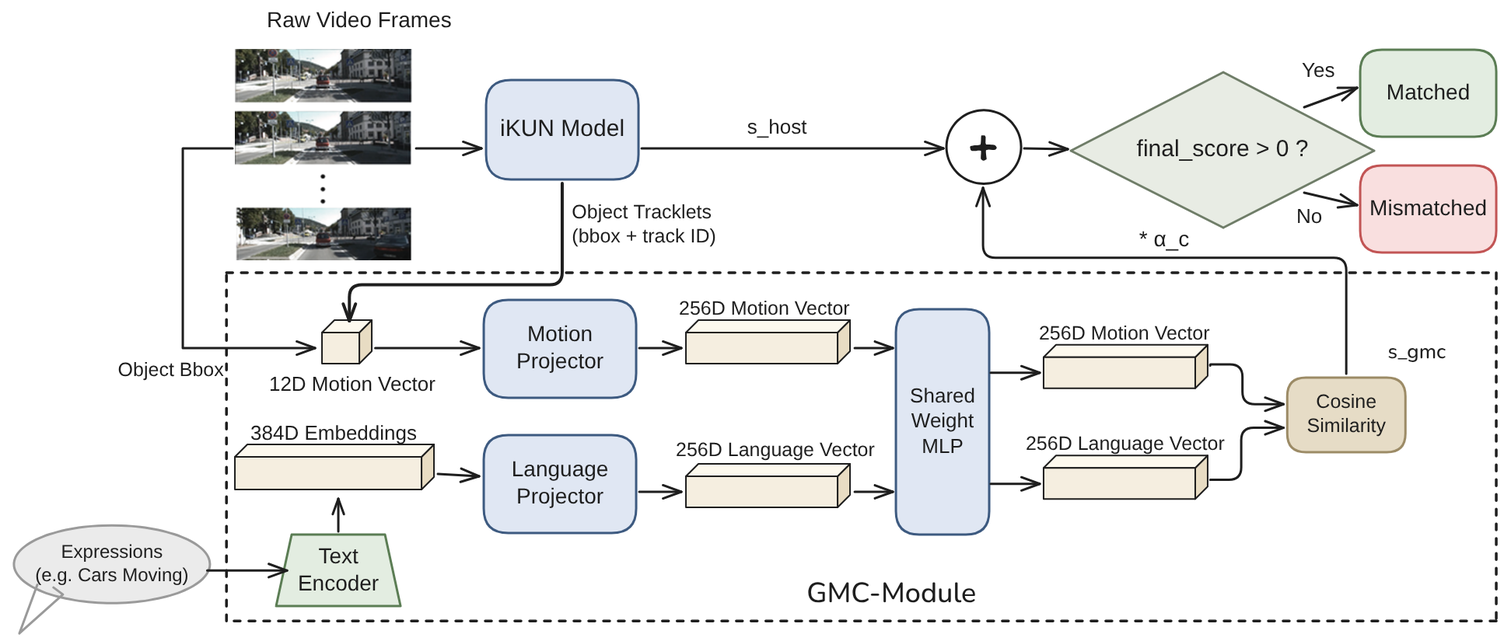
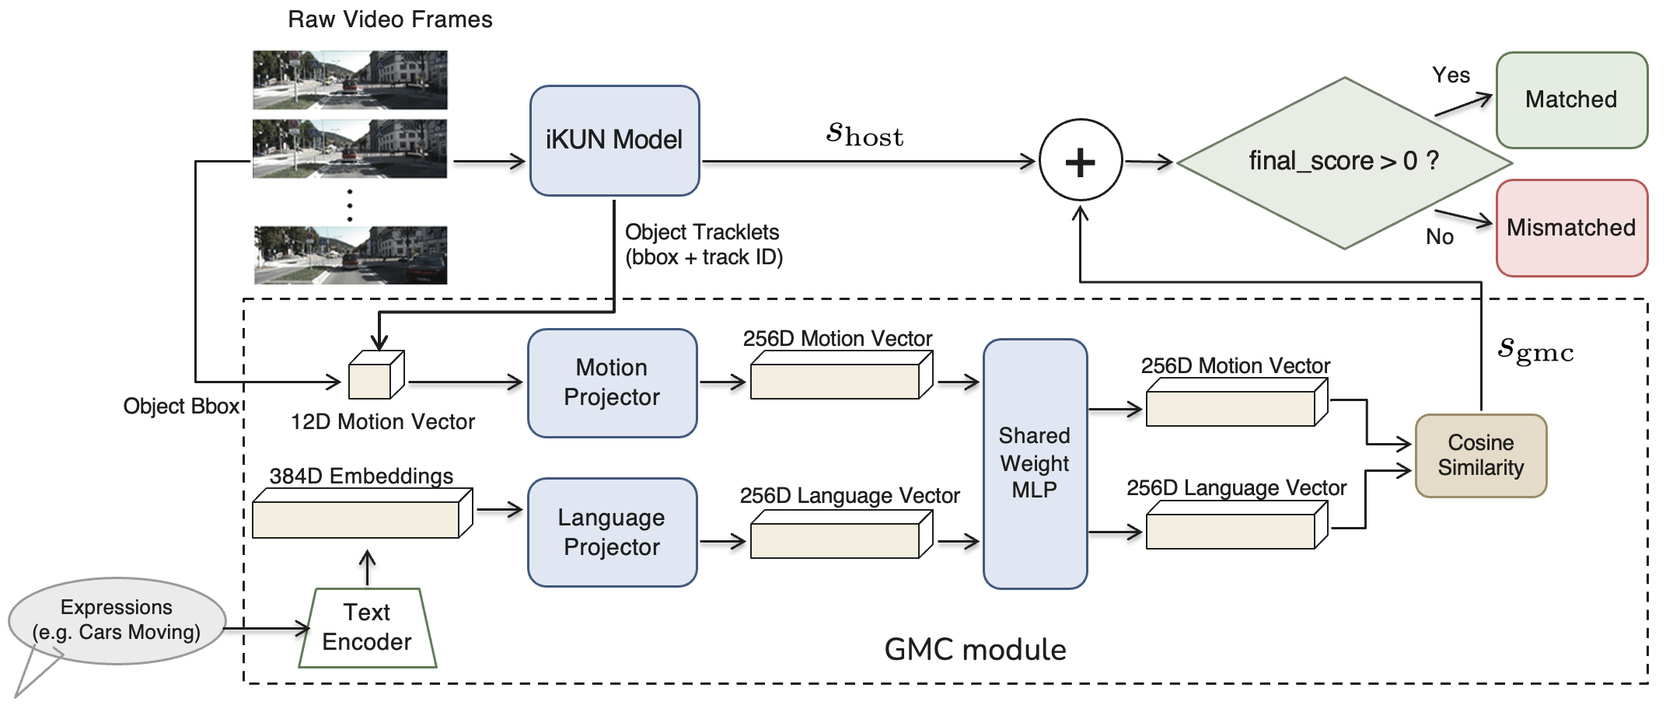
Add GMC v2.1 paper and figures

Changed region(s): [[0.0, 0.0, 1.0, 1.0], [0.9307, 0.5455, 0.9617, 0.5758], [0.7446, 0.2727, 0.7756, 0.303]]

diff --git a/2027_ICASSP/gmc_v2_1.tex b/2027_ICASSP/gmc_v2_1.tex
@@ -1,0 +1,281 @@
+% Template for ICASSP-2024 paper; to be used with:
+%          spconf.sty  - ICASSP/ICIP LaTeX style file, and
+%          IEEEbib.bst - IEEE bibliography style file.
+% --------------------------------------------------------------------------
+\documentclass{article}
+\usepackage{spconf,amsmath,graphicx}
+\usepackage{multirow}              % per-host recipe table
+\usepackage{microtype}             % kills sub-3pt overfull, polishes justification
+\usepackage{csquotes}
+\usepackage{comment}
+\usepackage{xcolor}
+
+% Example definitions.
+% --------------------
+\def\x{{\mathbf x}}
+\def\L{{\cal L}}
+
+% Title.
+% ------
+\title{Referring Multi-Object Tracking in Moving-Camera Videos via Global Motion Compensation}
+%
+% Single address.
+% ---------------
+\name{Author(s) Name(s)}
+\address{Author Affiliation(s)}
+%
+% For example:
+% ------------
+%\address{School\\
+%	Department\\
+%	Address}
+%
+% Two addresses (uncomment and modify for two-address case).
+% ----------------------------------------------------------
+%\twoauthors
+%  {A. Author-one, B. Author-two\sthanks{Thanks to XYZ agency for funding.}}
+%	{School A-B\\
+%	Department A-B\\
+%	Address A-B}
+%  {C. Author-three, D. Author-four\sthanks{The fourth author performed the work
+%	while at ...}}
+%	{School C-D\\
+%	Department C-D\\
+%	Address C-D}
+%
+\begin{document}
+\ninept
+%
+\maketitle
+%
+\begin{abstract}
+Referring multi-object tracking (RMOT) takes a video and a language expression as input and tracks all referred objects. Many tracking requirements involve how an object moves rather than how it appears. However, in a video captured by a moving camera, a parked vehicle may appear to move, while a moving vehicle may show little displacement. Existing RMOT methods relate motion with text but do not explicitly remove camera-induced motion. In this paper, we propose extracting residual motion across frames by estimating camera motion in driver-view videos and compare motion characteristics with the query expression. We consider the motion-matching extent and integrate it with the RMOT method's prediction result through late fusion. In the evaluation, we verify the performance gain of taking the motion compensation module as a plug-in across different RMOT hosts. %On iKUN, the module raises moving-class HOTA by $7.08$ points, and all three evaluated settings exceed their hosts' published pooled HOTA.
+\end{abstract}
+%
+\begin{keywords}
+referring multi-object tracking, motion compensation, motion-language alignment
+\end{keywords}
+
+%-------------------------------
+
+\section{Introduction}
+\label{sec:intro}
+Referring multi-object tracking (RMOT) outputs tracking results of the objects described by a free-form language expression. For example, a \enquote{left-vehicles-in-red} description targets the red vehicles on the left. However, many descriptions focus on moving objects, such as \enquote{moving cars} or \enquote{a vehicle turning left}. In videos captured by a moving camera, the observed motion is a mixture of object motion and camera motion; thus, a static car may appear to move, while a moving car may appear static across frames.
+
+Previous RMOT methods~\cite{transrmot,ikun,flexhook} match language expressions to objects. VMRMOT~\cite{vmrmot} considers explicit motion cues, such as changes in direction and speed, in the matching process. These methods compute motion from the object's bounding-box displacement across frames, which mixes object motion with camera motion. On the other hand, conventional multi-object tracking (MOT) methods propose to remove camera motion. BoT-SORT~\cite{botsort} estimates camera-induced image motion, while UCMCTrack~\cite{ucmctrack} stabilizes object trajectories. Overall, how motion compensation can be extended to RMOT is still underexplored. 
+
+%However, the compensated motion never reaches the language-matching stage. Camera motion could in principle be obtained from the global positioning system (GPS) and inertial measurement unit (IMU) recordings provided by KITTI~\cite{kitti}, which Refer-KITTI is built on. These sensors measure the position and orientation of the recording vehicle in the world, not how the camera's movement shifts pixels in the video. Converting between the two requires additional information: the pixel shift produced by a given camera movement depends on the camera's focal length, its mounting on the vehicle, and each point's distance from the camera. Moreover, general videos do not come with GPS or IMU recordings. We therefore estimate camera motion directly from image features, which keeps the module self-contained: it consumes only the frames the host model already uses and can be attached to different two-stage RMOT frameworks without modifying their architectures.
+
+In this paper, we propose separating object motion from camera motion and providing motion cues for RMOT methods. It consists of four stages. First, the geometric transformation across frames is estimated to measure camera motion. The estimated transformations are accumulated across frames to reliably measure object motion. Second, residual velocity, which represents object motion after removing camera motion, is computed across frames and used as a temporal motion feature. Third, a Contrastive Motion Aligner is developed to compare motion features with language expressions and produce a motion-matching score. Finally, the motion-matching score is scaled by a host-specific weight and added to the host's matching score. Here, the host model refers to a two-stage RMOT method used as a baseline, such as iKUN~\cite{ikun} and FlexHook~\cite{flexhook}. The proposed process is implemented as a plug-in module, thereby improving existing RMOT baselines without retraining them. 
+
+%The accumulated transformations are the key component. By compensating for camera motion, they allow the motion feature to better represent the object's actual movement rather than the apparent motion induced by camera movement. They also preserve motion information across frames, enabling the model to capture motion patterns described by expressions such as \enquote{moving} or \enquote{turning}.
+
+%This design leads to a two-sided prediction that can be tested directly: if residual velocity is replaced with raw image velocity, moving-class accuracy should decrease because objects travelling with the camera lose their image displacement, and static-class accuracy should also decrease because parked objects inherit the camera's motion. Section~\ref{sec:exp} confirms both effects and shows that, among the module's design choices, camera motion compensation is the only one whose removal significantly degrades either class. Compensation therefore makes the motion feature effective for object disambiguation rather than simply providing additional motion cues.
+
+This work connects motion compensation with motion-language modeling for RMOT. Our main contributions are as follows.
+\begin{itemize}
+  \item We propose a plug-in module that aligns the object's residual velocity with the referring expression, thereby improving the host RMOT method without modifying or retraining it.
+        %  \item We show that among the module's design choices, camera motion compensation is the key factor: it is the only component whose removal significantly degrades both moving-class ($p{=}0.006$) and static-class ($p{<}10^{-4}$) HOTA.
+  \item Across two host RMOT methods, i.e., iKUN and FlexHook, the proposed module improves pooled HOTA in all settings. 
+  %On iKUN, it raises MOVING HOTA from $25.531$ to $32.606\pm0.654$ (approximately $+7.08$ points).
+\end{itemize}
+
+%---------------------
+
+\begin{figure*}
+  \centering
+  \includegraphics[width=13cm]{figures/Architecture.png}
+  \caption{The proposed RMOT framework with the global motion compensation module. The host model (iKUN in this case) predicts an object-language matching score. The GMC module provides an extra matching score to adjust matching results.}
+  \label{fig:architecture}
+\end{figure*}
+
+\section{Related Works}
+\label{sec:related}
+\subsection{Referring Multi-Object Tracking}
+TransRMOT~\cite{transrmot} introduced the RMOT task on the Refer-KITTI dataset. Later methods improved different parts of this task. iKUN~\cite{ikun} separated language-based object matching from object tracking, while FlexHook~\cite{flexhook} improved how visual and language information interact. ReferGPT~\cite{refergpt} used a multimodal large language model to describe object tracks, and MEX~\cite{mex} provided a memory-efficient module for matching tracks with language. 
+
+Recent RMOT methods~\cite{deeprmot} further improve models' understanding of object descriptions. STORM~\cite{storm} unifies grounding and tracking in an end-to-end multimodal large language model. VMRMOT~\cite{vmrmot} explicitly represents motion using information such as position, direction, changes in distance, and changes in speed. These methods estimate object motion from the object's bounding-box movements across frames. %When the camera moves, the observed bounding-box movement contains both object motion and camera motion. %Therefore, a stationary object may appear to be moving, while a moving object may appear nearly stationary. This makes it difficult for the model to correctly understand motion-related expressions.
+
+%TempRMOT~\cite{temprmot} is different because it already stores trajectory history in recurrent memory. In our experiments, adding our external motion module to TempRMOT reduced pooled Higher Order Tracking Accuracy (HOTA) in two separate trials. This result suggests that the additional module may introduce redundant motion information or unnecessary constraints because TempRMOT already models motion over time. We therefore focus on two-stage RMOT models that do not already encode trajectory history in recurrent memory.
+
+\subsection{Motion Compensation in Tracking}
+Camera motion compensation is widely used in traditional multi-object tracking. BoT-SORT~\cite{botsort} estimates camera-induced motion across frames. UCMCTrack~\cite{ucmctrack} estimates how the camera moves relative to the road. EMAP~\cite{emap} further separates the camera's turning and movement from object motion within the Kalman prediction process.
+
+These methods demonstrate that compensating for camera motion can improve tracking. However, how to integrate compensated motion cues with language expressions to improve RMOT remains underexplored. 
+
+%Our method builds on established techniques for separating camera motion from object motion, including plane-plus-parallax analysis~\cite{iranianandan}, homography estimation~\cite{hartleyzisserman}, motion segmentation under moving cameras~\cite{bideau}, and ego-motion estimation in visual odometry~\cite{scaramuzza}. We do not propose a new camera-motion estimation technique. Instead, we convert camera-compensated trajectories into motion features and align them with language for RMOT.
+
+%\subsection{Connecting camera compensation with RMOT}
+%Existing RMOT methods can match object motion with language, but their motion estimates are still affected by camera movement. In contrast, camera-compensated MOT removes this effect, but uses the corrected motion only for tracking rather than for language understanding. The GMC Module connects these two research directions. It tracks object motion across multiple frames after removing camera motion, compares this corrected motion with the referring expression, and combines the resulting score with the host model's original score. In this way, the host model keeps its original appearance-based matching ability while gaining additional motion information. 
+
+%------------------------------------
+
+
+\section{Method}
+\label{sec:method}
+Figure~\ref{fig:architecture} shows the proposed RMOT framework with the global motion compensation (GMC) module. The GMC Module is attached to a two-stage RMOT method, iKUN~\cite{ikun} in this case. iKUN performs object detection and tracking and then outputs object-language matching scores. The inputs to the GMC module are the sequence of object bounding boxes across frames, the video frames, and the language expression. Based on these inputs, it estimates camera motion, extracts residual object motion, aligns it with the language expression, and produces another matching score. The score is then combined with the host model's predicted score to determine the final tracking result. The GMC module consists of four stages: motion compensation, multi-scale residual velocity extraction, motion-language alignment, and late fusion. 
+
+\subsection{Motion Compensation}
+\label{sec:ego}
+As in previous RMOT works, we take Refer-KITTI~\cite{transrmot} as the evaluation benchmark. Refer-KITTI is recorded from a driver-view camera, so the road surface is visible in most frames and stays close to a single plane. We extract Shi-Tomasi keypoints~\cite{shitomasi} in the lower half of the frame and track them into the next frame with pyramidal Lucas-Kanade optical flow~\cite{lucaskanade}. The RANSAC~\cite{ransac} algorithm is then employed to estimate the frame-to-frame homography $H_{t-1 \to t}$ to describe the correspondences between keypoints in two frames. %Sparse road texture can make this fit fail; the module then falls back to a global homography estimated from ORB~\cite{orb} features over the whole frame, with object boxes masked out.
+
+To describe camera motion across more frames, the estimated homographies are accumulated as
+\begin{equation}
+  H_{t-k \to t} = H_{t-1 \to t} \times H_{t-2 \to t-1} \times \cdots \times H_{t-k \to t-k+1},
+  \label{eq:cumulative}
+\end{equation}
+where $H_{t-k \to t}$ represents the accumulated camera transformation from frame $I_{t-k}$ to frame $I_t$. Instead of repeatedly transforming already-warped coordinates, the accumulated homography is applied only once to the detected objects' centroids. This reduces numerical drift and provides a stable reference for estimating the residual velocity in the next stage.
+
+\subsection{Multi-Scale Residual Velocity}
+\label{sec:residual}
+Before going into more details, we define the following three velocities: 
+\begin{itemize}
+\item Raw velocity: Raw velocity is the observed image-plane velocity of an object, computed from the displacement of its centroid between two frames separated by $g$ frames and normalized by the corresponding time interval. 
+\item Ego-motion-induced velocity: Ego-motion-induced velocity is the image-plane velocity caused by camera motion, computed from the displacement of the object's location predicted by the homography between two frames separated by g frames and normalized by the corresponding time interval. 
+\item Residual velocity: Residual velocity is the camera-motion-compensated object velocity obtained by subtracting the ego-motion-induced velocity from the raw velocity.
+\end{itemize}
+
+Based on the accumulated homography matrix and the objects' bounding boxes, we aim to estimate the \emph{residual velocity}. For a temporal gap $g$, the raw velocity $v^{\mathrm{raw}}_{g}$ is calculated by dividing the displacement of the object centroid between two frames ($I_{t-g}$ and $I_{t}$) by the time gap $g$. The raw velocity is mixed with the object's motion and the camera's motion. To remove the camera motion, the accumulated homography is applied to an object's centroid $\boldsymbol{o}_{t-g}$ at $I_{t-g}$, yielding $\hat{\boldsymbol{o}}_{t}$ that is the predicted centroid at $I_{t}$ under the assumption that the object is static. Then the ego-motion-induced displacement $\hat{\boldsymbol{o}}_{t}-\boldsymbol{o}_{t-g}$ is normalized by the time interval $g$ to estimate the ego-motion-induced velocity $v^{\mathrm{ego}}_{g}$. The residual velocity $v^{\mathrm{res}}_{g}$ is then computed as
+\begin{equation}
+  v^{\mathrm{res}}_{g} = v^{\mathrm{raw}}_{g} - v^{\mathrm{ego}}_{g}. 
+  \label{eq:residual}
+\end{equation}
+This value approximates the motion that a static camera would observe. For example, a parked vehicle has near-zero residual velocity even when camera motion causes a large image displacement. All displacements are normalized by the image dimensions to make them independent of the image resolution. 
+
+To capture motion over different time spans, residual velocities are computed at temporal gaps of $\{2,5,10\}$ frames. That means the accumulated homography matrices mentioned in Eqn.~(\ref{eq:cumulative}) have three versions, i.e., $H_{t-2 \to t}$, $H_{t-5 \to t}$, and $H_{t-10 \to t}$. The residual velocities are concatenated with the object's box information to form a 12-dimensional motion feature,
+\begin{equation}
+  \bigl((dx_s,dy_s),(dx_m,dy_m),(dx_l,dy_l),\Delta w,\Delta h,c_x,c_y,w,h\bigr),
+  \label{eq:descriptor}
+\end{equation}
+where the first six values are the residual velocities at the three temporal gaps, and $\Delta w, \Delta h$ capture the change in box scale. The terms $c_x$ and $c_y$ describe the coordinates of the box center, and $w$ and $h$ describe the width and height of the box, respectively.
+
+\subsection{Motion-Language Matching}
+\label{sec:align}
+Given the motion features mentioned above and the language expression, this stage measures how much the observed object's (relative) motion matches the expression. The 12-dimensional motion feature is encoded by a motion encoder, while the language expression is encoded by the model called all-MiniLM-L6-v2 (MiniLM)~\cite{sbert} into the text embeddings. Both embeddings are projected into the same feature space using linear projection layers and a shared Multi-Layer Perceptron (MLP).
+
+The model is trained using the Information Noise Contrastive Estimation (InfoNCE)~\cite{infonce} loss to maximize the similarity between matched motion-expression pairs while separating unmatched pairs. A positive pair is formed by the embeddings of an object and the corresponding expression. Other object-expression pairs in the same mini-batch are treated as negatives. The MiniLM text encoder is kept fixed, and only the projection layers and motion encoder are trained. During inference, the cosine similarity $s_{\mathrm{gmc}}$ between an object's motion embeddings and the target expression's embeddings is used as the matching score and passed to the late fusion stage described below.
+
+\subsection{Fusion}
+\label{sec:fusion}
+We aim to integrate the matching score described above with the prediction score from the host RMOT method to improve tracking performance. The integration is defined as 
+\begin{equation}
+  s_{\mathrm{final}} = s_{\mathrm{host}} + \alpha_{c}\,s_{\mathrm{gmc}},
+  \label{eq:fusion}
+\end{equation}
+where $s_{\mathrm{host}}$ is the prediction score from the host model. The weighting $\alpha_c$ is designed to vary for different types of expressions. For example, \enquote{moving car} is a \emph{moving} expression, \enquote{left vehicles which are parking}\footnote{in Refer-KITTI, this expression refers to a vehicle that is already parked, rather than a vehicle that is in the process of parking.} is a \emph{static} expression, and \enquote{right cars in light color} is a \emph{appearance} expression. Based on the keywords in the expression, we classify it as moving, static, or appearance. Because different host models produce scores over different ranges, the weighting $\alpha_c$ is selected for each host via leave-one-sequence-out cross-validation. For each fold, the weighting that yields the highest pooled HOTA (on the validation set) is chosen for all but one sequence. The final weighting is determined as the median over folds. Finally, when iKUN is used as the host model, the weighting $\alpha_c$ is set to 0.7 for moving and static expressions, while the weighting $\alpha_c$ is set to 0.1 for the appearance expressions. When FlexHook V1 is used as the host model, the weighting $\alpha_c$ is set to 7 for all expressions. When FlexHook V2 is used as the host model, the weighting $\alpha_c$ is set to 5 for all expressions. 
+
+Since the GMC module only adds extra influence on the final prediction score, it can be integrated into existing two-stage RMOT frameworks without changing or retraining their detector, tracker, visual encoder, or language encoder.
+
+\section{Experiments}
+\label{sec:exp}
+
+\subsection{Setup}
+\label{sec:setup}
+We evaluate the proposed module on the Refer-KITTI V1~\cite{transrmot} and the Refer-KITTI V2~\cite{temprmot} benchmarks using the HOTA metric from TrackEval~\cite{hota}, which jointly measures detection and association performance. We report both moving-class HOTA, which evaluates only expressions referring to moving objects, and pooled HOTA, which evaluates all expressions in the benchmark. The V1 test split contains three sequences, and the V2 test split contains four.
+
+The proposed GMC module is integrated with two host models, i.e., iKUN~\cite{ikun} and FlexHook~\cite{flexhook}, respectively. For comparison, we also evaluate a raw-velocity variant that uses image-plane motion directly, without ego-motion compensation. The GMC module is trained using the AdamW~\cite{adamw} optimizer with a learning rate of $10^{-3}$, batch size 256, and 100 epochs. The linear projectors and MLP in the module are trained based on the Refer-KITTI V1 training split (15 sequences, disjoint from the test sequences). Each positive pair consists of an expression and the motion features derived from the object's ground-truth boxes. At test time, raw object movement is derived from the host model's initial tracking results, the residual velocity is calculated, and the motion features are finally computed. The road-plane homography tracks up to 600 corners with a 3-pixel RANSAC threshold. %Excluding host inference, the module runs at $149$ FPS on CPU ($6.7$\,ms per frame).
+
+Results are averaged over three random seeds for the main configurations. Ablation analyses are done using five seeds. Both host models use their original detection results. FlexHook V1 is evaluated under the official 150-expression protocol. %Our reproduced FlexHook baselines match their published scores exactly at $\alpha_c{=}0$, while our reproduced iKUN ($44.224$) is slightly below its published score. Table~\ref{tab:main} therefore reports the stricter comparison against the published baselines.
+
+Refer-KITTI does not provide a dedicated validation split. All fusion weights are therefore selected by the leave-one-sequence-out procedure mentioned in Sec.~\ref{sec:fusion}. No weight is chosen on the sequence it is evaluated on.
+
+Refer-KITTI is highly imbalanced, with only about one-sixth of the language expressions referring to moving objects. Consequently, improvements in motion understanding may have only a limited impact on pooled HOTA. Therefore, moving-class HOTA is used as the primary evaluation metric, while pooled HOTA is reported to reflect overall benchmark performance. 
+
+\subsection{Main results}
+\label{sec:main}
+Table~\ref{tab:main} summarizes the pooled HOTA results. We evaluate the performance variations when iKUN or FlexHook is used as the host model, with or without the GMC module. Specifically, the values for the rows of iKUN and FlexHook V1 are obtained from the Refer-KITTI V1 dataset, while the values for the row of FlexHook V2 are obtained from the Refer-KITTI V2 dataset. Table~\ref{tab:main} shows that the proposed GMC module provides performance gains across all settings.
+
+%Overall, these results show that camera-motion-compensated motion information is beneficial only when it is properly aligned with the host model. The gains are most visible on motion-referring expressions, while pooled HOTA changes are smaller because motion expressions form a minority of Refer-KITTI. Thus, the GMC Module should be viewed primarily as a motion-grounding correction that preserves competitive pooled performance in the evaluated settings.
+
+\begin{table}
+  \centering
+  \caption{Performance in terms of the pooled HOTA on the Refer-KITTI test dataset.}
+  \label{tab:main}
+  \small
+  \setlength{\tabcolsep}{2pt}
+  \begin{tabular}{lccc}
+    \hline
+    Host                        & w/o GMC & w. GMC           & Gain                      \\
+    \hline
+    iKUN~\cite{ikun}            & 44.564    & 44.847 $\pm$ 0.107 & +0.283 \\
+    FlexHook V1~\cite{flexhook} & 53.824    & 53.980 $\pm$ 0.059 & +0.156 \\
+    FlexHook V2~\cite{flexhook} & 42.526    & 42.625 $\pm$ 0.032 & +0.099 \\
+    \hline
+  \end{tabular}
+\end{table}
+
+
+Table~\ref{tab:deficit} reports HOTA variations for movement-related expressions only. As can be seen, the GMC module provides performance improvement across all three settings. The performance gains differ by an order of magnitude: iKUN gains $+7.08\pm0.65$, FlexHook V1 $+0.67\pm0.13$, and FlexHook V2 $+0.18\pm0.06$.
+
+%In our evaluated settings, this trend suggests that the GMC Module is most beneficial for host models with weaker motion understanding. When the host model already distinguishes camera motion from object motion reasonably well, the proposed module provides only a small improvement. Conversely, when the host struggles with motion grounding, the GMC Module can effectively compensate for this limitation and achieve a larger performance gain.
+
+%Although this trend is consistent across all evaluated settings, it is observed on two host architectures. Evaluating additional host models would help verify whether this trend generalizes to other architectures.
+
+\begin{table}
+  \centering
+  \caption{Moving-class HOTA on movement-related expressions ($27/158$ for iKUN, $25/150$ for FlexHook V1, $136/862$ for FlexHook V2), $n{=}3$ seeds.}
+  \label{tab:deficit}
+  \small
+  \setlength{\tabcolsep}{2pt}
+  \begin{tabular}{lcc}
+    \hline
+    Host        & Baseline & Performance gain \\
+    \hline
+    iKUN        & 25.53    & $+7.08\pm0.65$   \\
+    FlexHook V1 & 44.31    & $+0.67\pm0.13$   \\
+    FlexHook V2 & 38.15    & $+0.18\pm0.06$   \\
+    \hline
+  \end{tabular}
+\end{table}
+
+\subsection{Ablation Studies}
+\label{sec:ablation}
+Table~\ref{tab:ablation} reports the five-seed ablation measurements when iKUN is used as the host model. The full module improves moving-class HOTA from $25.53$ to $32.30$ and pooled HOTA from $44.22$ to $44.80$. The full module also improves the pooled HOTA from $44.22$ to $44.80$. If the ego-motion compensation is removed, the moving HOTA drops from $32.30$ to $28.49$, while removing the multi-scale gaps when calculating residual velocity reduces performance from $32.30$ to $30.45$. These show the influence of both components. 
+
+%Both drops are significant under Welch's $t$-test ($n{=}5$; ego: $t{=}11.8$ moving-class, $11.7$ pooled; multi-scale: $t{=}6.2$ and $6.7$; all $p{<}0.01$), and ego-motion compensation accounts for the larger share.
+
+\begin{table}
+  \centering
+  \caption{Per-class HOTA ablation on iKUN ($n{=}5$ seeds).}
+  \label{tab:ablation}
+  \small
+  \setlength{\tabcolsep}{2pt}
+  \begin{tabular}{lcc}
+    \hline
+    Variant                    & Moving HOTA               & Pooled HOTA               \\
+    \hline
+    Native host (w/o GMC)    & 25.53                     & 44.22                     \\
+    Full module (w. GMC)             & \textbf{32.30 $\pm$ 0.63} & \textbf{44.80 $\pm$ 0.10} \\
+    \quad - ego (raw velocity only)      & 28.49 $\pm$ 0.35          & 44.17 $\pm$ 0.07          \\
+    \quad - multiscale (single gap) & 30.45 $\pm$ 0.20          & 44.49 $\pm$ 0.02          \\
+    \hline
+  \end{tabular}
+\end{table}
+
+\begin{figure}
+  \centering
+  \includegraphics[width=\linewidth]{figures/qualitative.png}
+  \caption{``Moving cars'' (Refer-KITTI seq 0005). The parked car (red) sweeps across the image as the camera passes, while the moving car (green) barely shifts. Raw image motion misclassifies both; the ego-compensated residual recovers both from the same host score.}
+  \label{fig:qual}
+\end{figure}
+
+Figure~\ref{fig:qual} shows a sample tracking result. The parked car appears to move across frames due to camera motion, while the moving car remains at nearly the same distance from the camera. Without ego-motion compensation, these two cases are easily confused and mistracked. After motion compensation, the parked car has nearly zero residual velocity, while the moving car presents nonzero residual velocity. This allows the GMC module to more correctly predict the matching score. 
+
+\section{Conclusion and Limitations}
+\label{sec:conclusion}
+The GMC module is a plug-in that improves motion grounding in referring multi-object tracking without modifying the detector, tracker, or appearance-language matching model. By compensating for camera motion and matching residual motion features with language expressions, the proposed module helps distinguish object motion from camera-induced motion. Road-region background correspondences provide a geometric reference for estimating camera motion in driving videos. The residual motion features are then matched against language expressions to yield a matching score, which is integrated with the host model's prediction score via late fusion. On the Refer-KITTI datasets, the pooled HOTA improves for different host models. For movement-related expressions, the largest gain is observed when iKUN is used as the host model.
+
+Despite these promising results, several limitations remain. First, the road-plane homography assumes a flat ground plane. Scenes with steep slopes or uneven terrain fall outside the model's scope. Second, a keyword classifier decides which weight an expression is associated with. Therefore, a misread expression gets the incorrect fusion weight. %$14$ of the $126$ direction expressions in Refer-KITTI V1 are treated as appearance. 
+%Third, two weights do not help every host. On both FlexHook settings the leave-one-sequence-out procedure selects a single weight. 
+Finally, our experiments are conducted on two RMOT frameworks and the Refer-KITTI benchmarks. Additional evaluations across more host models and datasets are needed to further validate the generality of the proposed approach.
+
+%In future work, we plan to investigate more robust camera motion estimation methods and richer motion features that can better handle complex dynamic scenes. We also hope to evaluate the GMC Module on a broader range of referring multi-object tracking frameworks to further improve its generalization.
+
+% References should be produced using the bibtex program from suitable
+% BiBTeX files (here: strings, refs, manuals). The IEEEbib.bst bibliography
+% style file from IEEE produces unsorted bibliography list.
+% -------------------------------------------------------------------------
+\bibliographystyle{IEEEbib}
+\bibliography{refs}
+
+\end{document}
